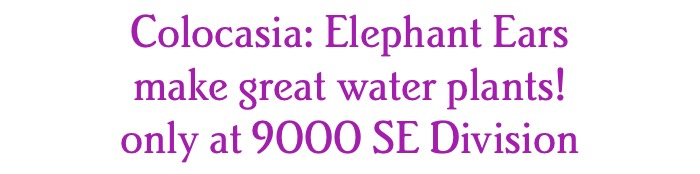
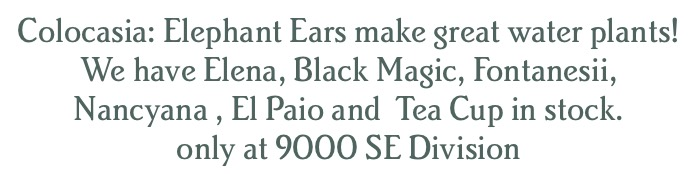
july 5

Changed region(s): [[0.0, 0.0862, 0.99, 0.9483]]

diff --git a/current-news.html b/current-news.html
@@ -208,7 +208,7 @@
                                                                     </td>
                                                                 </tr>
                                                          <tr>
-                                                                    <td style="border: 0px solid transparent; padding: 0; color: #555555;width: 100%;">
+                                                                    <td style="border: 0px solid transparent; padding: 0; color: #555555;width: 100%;padding: 0 10px;">
 
  <div style="font-family:'Josefin Sans',Arial, Helvetica, sans-serif;font-weight:500;font-size:36px;color:#00000;line-height:1.5;padding:0;text-align: center; margin: 15px 0 0;">Guidelines for Cutting Flowers</div>
  <div style="font-family:'Josefin Sans',Arial, Helvetica, sans-serif;font-size:18px;color:#555555;line-height:1.5;padding:0;text-align: left; margin-bottom: 15px;">These are a few basic guideline for cut flower preparation based on stem type. Certain flowers require special preparation, but this gets you started. </div>
@@ -258,7 +258,7 @@
                                                     </div>
                                                 </td>
                                             </tr><!-- End Divider Row -->
-                                            <!-- ==================== Spacer Row ===================== -->
+                                             <!-- ==================== Spacer Row ===================== -->
                                             <tr>
                                                 <td>
                                                     <div style="align:center;" class="">
@@ -290,8 +290,45 @@
                                                     </div>
                                                 </td>
                                             </tr><!-- End Divider Row -->
-                                            <!-- ==================== Spacer Row ===================== -->
 
+                                            <!-- ==================== Spacer Row ===================== -->
+                                            <tr>
+                                                <td>
+                                                    <div style="align:center;" class="">
+                                                        <table border="0" cellpadding="0" cellspacing="0" width="100%" style="table-layout: fixed;">
+                                                            <tbody>
+                                                                <tr>
+                                                                   <td style="border: 0px solid transparent; padding: 0; color: #555555;width: 100%;">
+                                                                        <div class="noWrapImageWrapper" style="text-align: center; margin: 0; padding: 10px 20px;"><img alt="" src="http://portlandnursery.com/newsletter/images/colocasia.jpg" style="margin: 0;display: inline;" /></div>
+                                                                    </td>
+                                                                </tr>
+                                                                 <tr>
+                                                                   <td style="border: 0px solid transparent; padding: 0; color: #555555;width: 100%;">
+                                                                        <div class="noWrapImageWrapper" style="text-align: center; margin: 0; padding: 10px 20px;"><img alt="" src="http://portlandnursery.com/newsletter/images/titles/colocasia.jpg" style="margin: 0;display: inline;" /></div>
+                                                                    </td>
+                                                                </tr>
+
+                                                            </tbody>
+                                                        </table>
+                                                    </div>
+                                                </td>
+                                            </tr><!-- End Spacer Row -->
+                                      <!-- ==================== Divider Row ===================== -->
+                                            <tr>
+                                                <td style="border: 0px solid transparent; padding: 0; color: #555555;width: 100%;">
+                                                    <div style="align:center;" class="">
+                                                        <table border="0" cellpadding="0" cellspacing="0" width="100%" style="table-layout: fixed;">
+                                                            <tbody>
+                                                                <tr>
+                                                                    <td style="border: 0px solid transparent; padding: 0; color: #555555;width: 100%;">
+                                                                        <div class="noWrapImageWrapper" style="border-top:1px solid #CCC;text-align: center; margin: 20px 0; padding: 0;"><img alt="" src="http://portlandnursery.com/images-layout/spacer_CCCCCC.gif" style="margin: 0;display: inline;" /></div>
+                                                                    </td>
+                                                                </tr>
+                                                            </tbody>
+                                                        </table>
+                                                    </div>
+                                                </td>
+                                            </tr><!-- End Divider Row -->
                                              <!-- ==================== Content Row ===================== -->
                                             <tr>
                                                 <td style="border: 0px solid transparent; padding: 0; color: #555555;width: 100%;">
@@ -309,8 +346,6 @@
                                                     </div>
                                                 </td>
                                             </tr> <!-- end content row -->
-
-
                                            <!-- ==================== Content Row ===================== -->
                                             <tr>
                                                 <td style="border: 0px solid transparent; padding: 0; color: #555555;width: 100%;">
